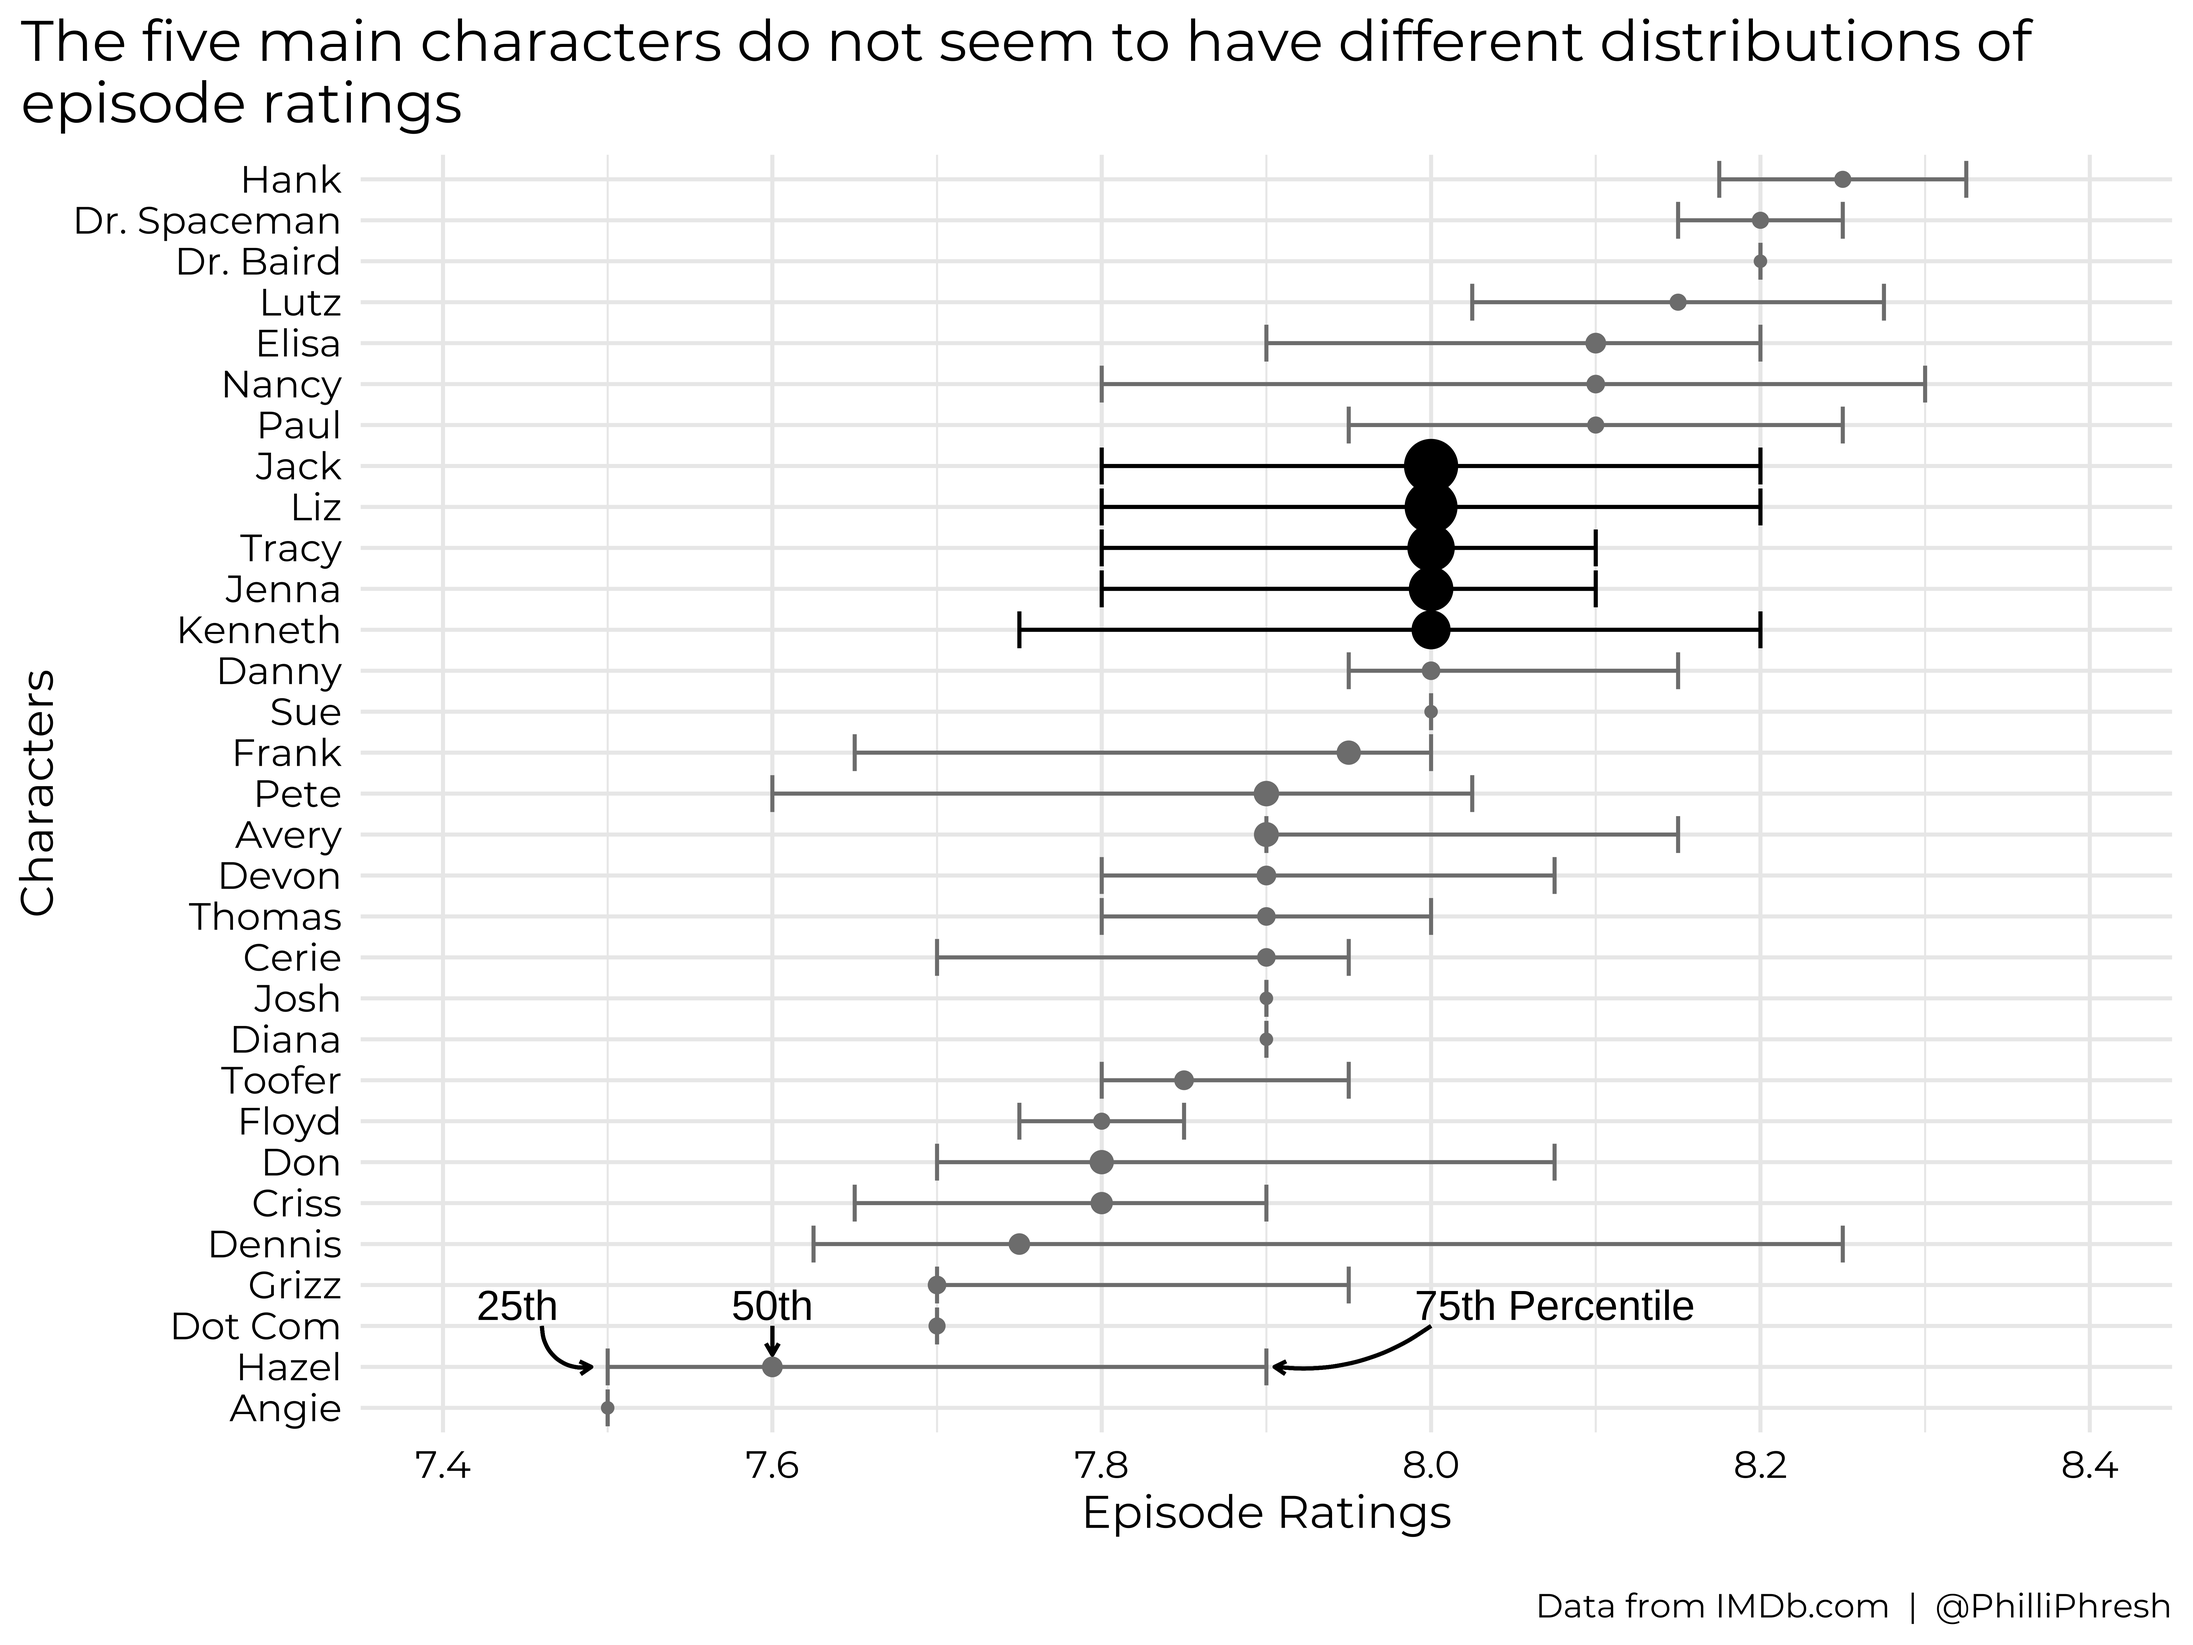
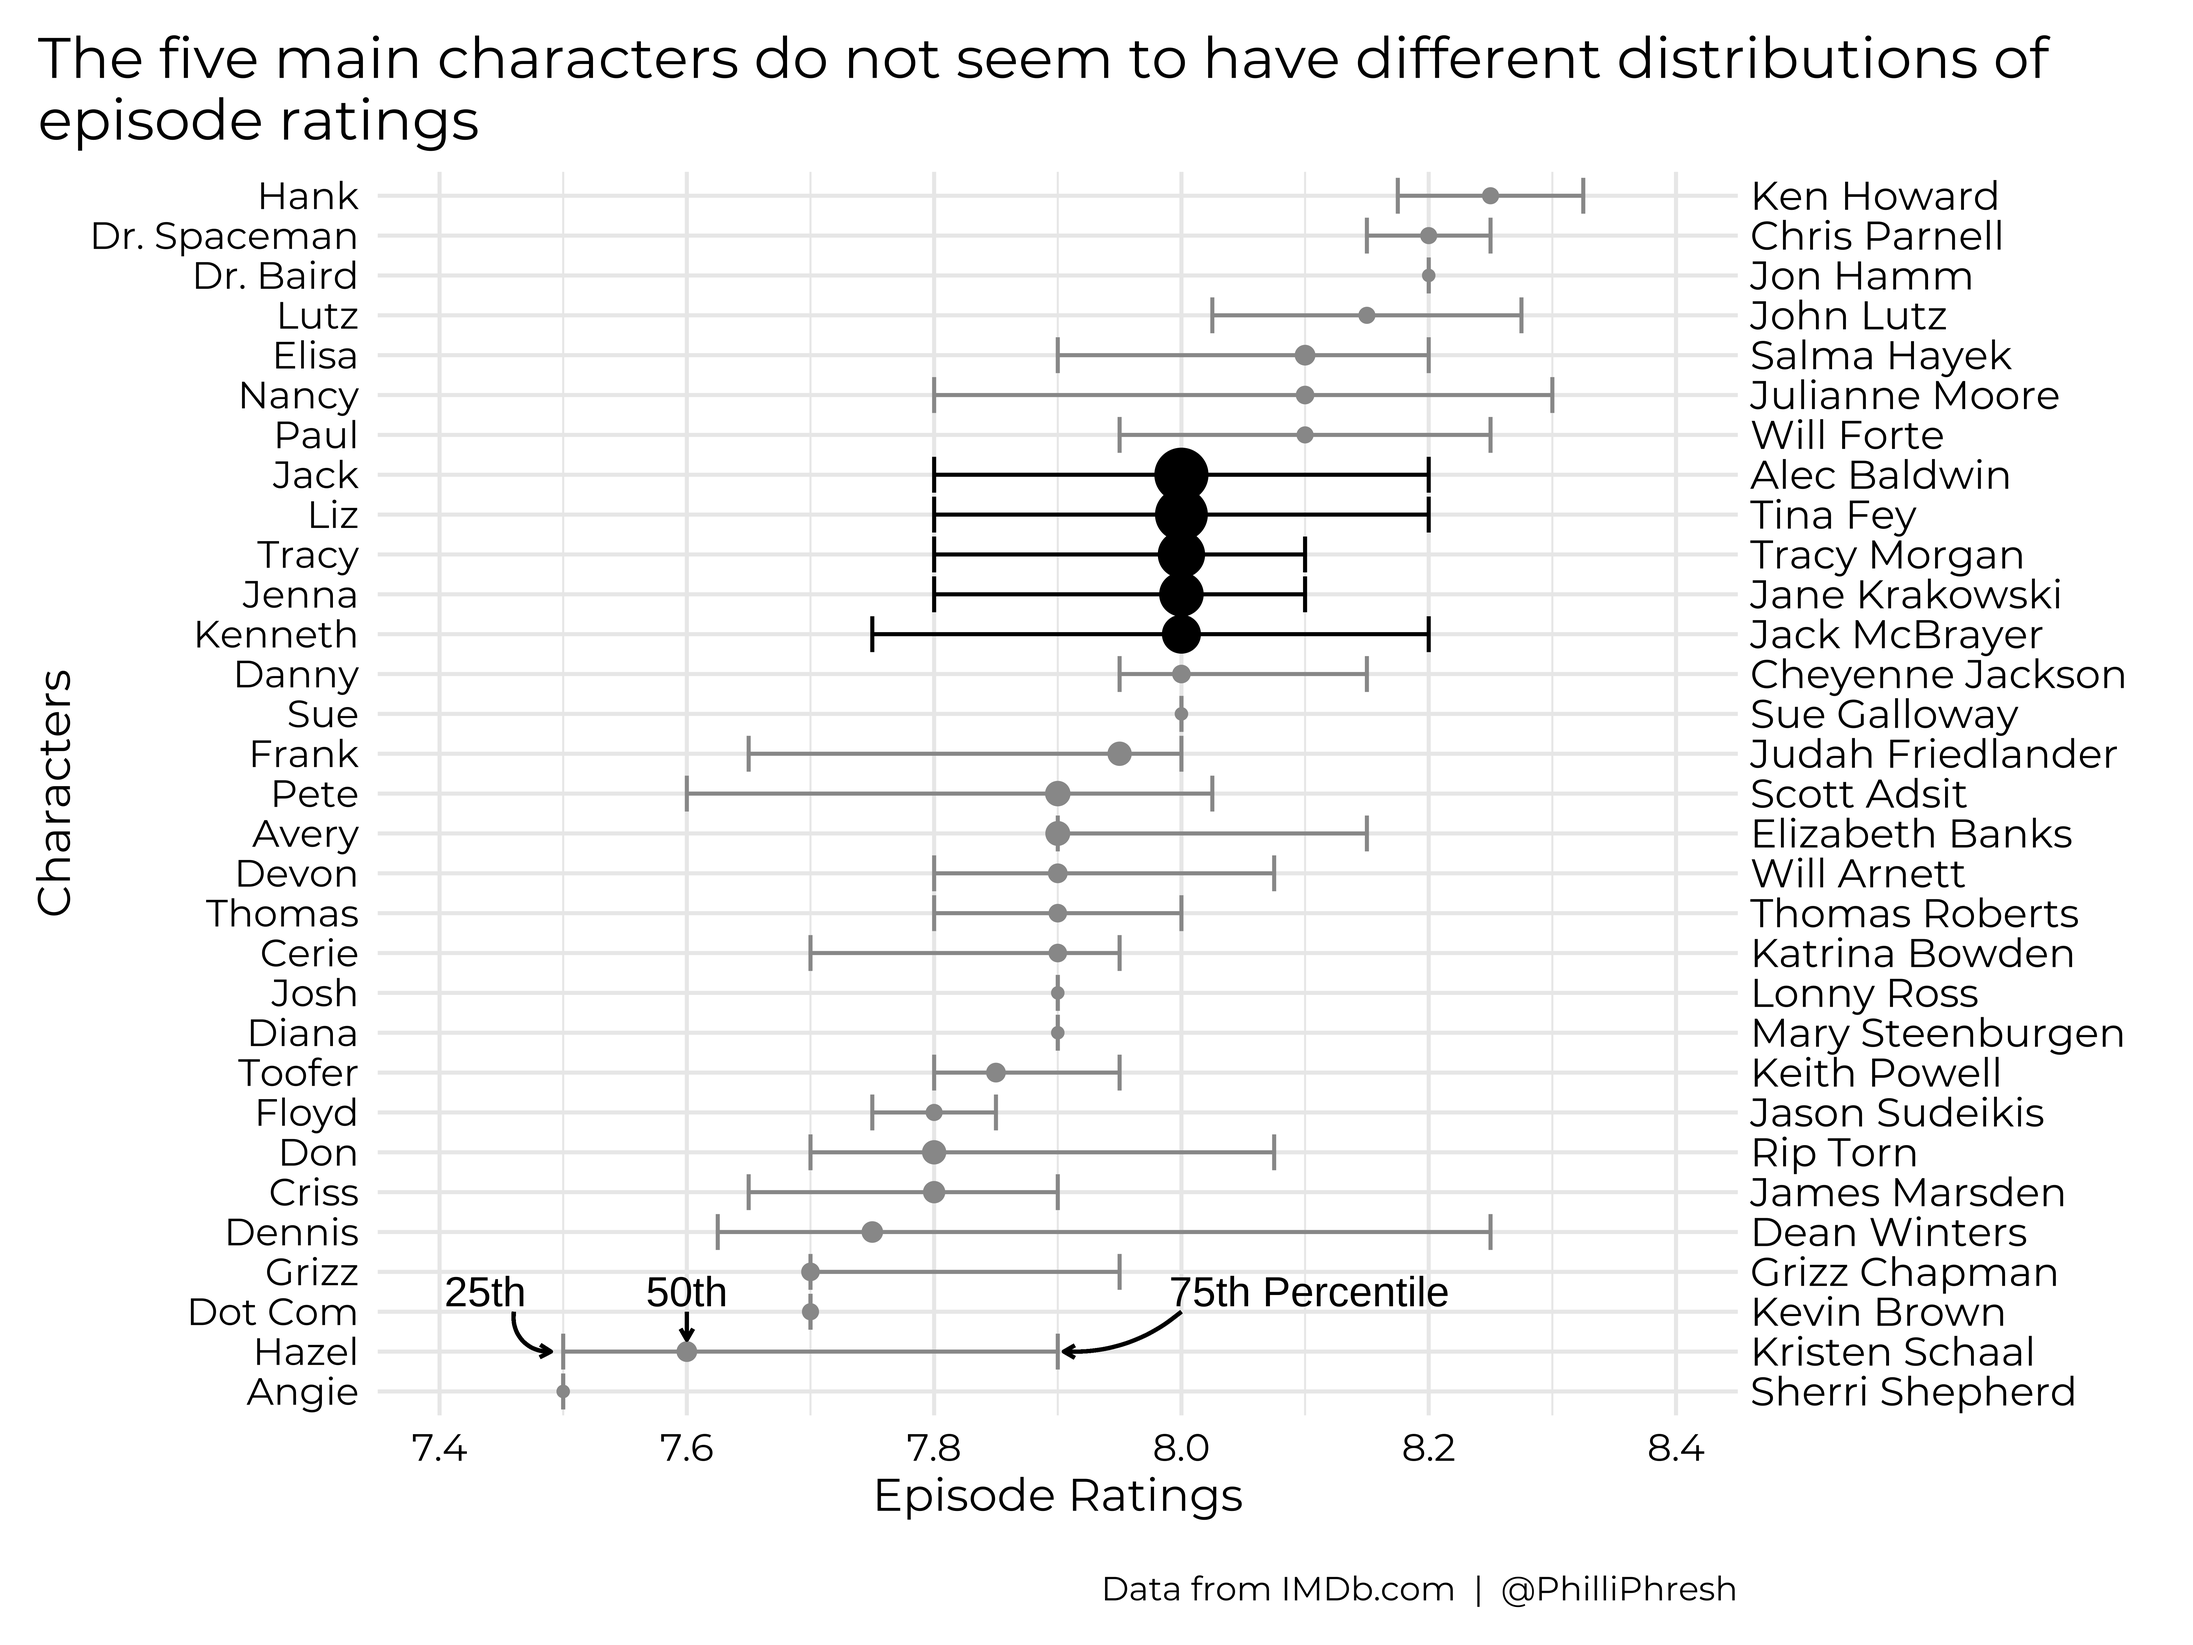
Cleaned up text and added actor names to character plot.

diff --git a/README.md b/README.md
@@ -13,9 +13,7 @@ fantastic show, and perhaps impress my friends from The Second City.
 ## IMDb rating
 
 IMDb ratings tend to be my go-to metric for scoring episodes, and
-something that I find particularly interesting. I suppose I assume that
-episodes with higher IMDb ratings had higher Neilsen ratings or
-generated more audience for the show. The plot below shows the
+something that I find particularly interesting. The plot below shows the
 distribution of IMDb ratings for every regular-season episode of the
 show.
 
@@ -62,7 +60,7 @@ staring in every episode. Robert Carlock wrote the second most total
 episodes for the show, which is fortunate because I love his writing
 style: quick, ridiculous, and too witty to keep up with sometimes. Tina
 Fey and Robert Carlock went on to co-create *The Unbreakable Kimmy
-Schmidt*, which would be another interesting show to analyze, bringing
+Schmidt* (which would be another interesting show to analyze) bringing
 along a lot of 30 Rock writing alumna. Tracy Wigfield created the NBC
 series *Great News*, another great watch. I believe Donald Glover is
 credited as a story consultant writer on some episodes that do not show
@@ -81,7 +79,8 @@ If they have similar distributions we cannot make any conclusions about
 the new writers, if the new writers have lower ratings then we can
 reasonably assume they did not do the show any favors.
 
-For the purposes of this question, the original writing team is:
+For the purposes of this question, I define the original writing team
+as:
 
 -   Tina Fey
 
@@ -111,11 +110,20 @@ The new writers are:
 
 ![](README_files/figure-gfm/unnamed-chunk-5-1.png)<!-- -->
 
+From season four and on, the episodes written by the new writers had
+lower median IMDb ratings than the original writing team. This evidence
+gives some merit to my hypothesis but with only 137 aired episodes, I
+don’t think there is enough data to be certain the new writers are all
+worse. If every writer wrote many more episodes, perhaps we could look
+at each writer’s episode ratings individually—there could be some
+original writing team members that produce consistently lower ratings
+and some new writers that produce consistently higher ratings.
+
 ## Prevalence of directors
 
 The plot below lists every director of the show in order of total
-episodes directed for the series. The median IMDb rating for each
-director’s episodes is listed beside their name.
+episodes directed for the series. The median IMDb rating for episodes
+directed by each person is listed beside their name.
 
 ![](README_files/figure-gfm/unnamed-chunk-6-1.png)<!-- -->
 
@@ -127,16 +135,19 @@ life). I notice Robert Carlock, the second-most credited writer,
 directed an episode in the final season—I wonder if there is any other
 writer/director overlap.
 
-## Examining characters listed in episode description
+# Examining characters listed in episode description
 
-Can we find any relationships with character names and IMDb ratings?
+Do episodes with Cerie in the spotlight score higher than those with
+Frank? Can we find any relationship with character names and IMDb
+ratings?
 
-### A little more web scraping needs performed to gather a list of character names
+## A little more web scraping needs performed to gather a list of character names
 
-View the README.Rmd file in this Github repo to see the extra web
-scraping code to gather character names.
+This Github repo includes the original Web Scraping code used to gather
+this data. You can view the README.Rmd file in this repo to see the
+extra web scraping code used to gather character names.
 
-### Plotting character rating prevalence
+## Plotting character rating prevalence
 
 I’m interested in seeing if certain characters being the main focus of
 an episode drives the IMDb rating up or down. Unfortunately a large
@@ -154,4 +165,26 @@ description—the top 5 characters are highlighted.
 
 ![](README_files/figure-gfm/unnamed-chunk-8-1.png)<!-- -->
 
-I’m not surprised Dr. Spaceman is stably near the top of the list.
+I’m not surprised Dr. Spaceman is stably near the top of the list. Of
+the main characters there doesn’t seem to be a difference in the
+distribution of episode ratings. However, I do notice annecdotally that
+a lot of episodes with characters often associated with Jack (romantic
+partners or business associates) outpace characters associated with Liz
+(mostly romantic partners).
+
+| Characters associated with Jack | Characters associated with Liz |
+|---------------------------------|--------------------------------|
+| Hank                            | Dr. Baird                      |
+| Elisa                           | Floyd                          |
+| Nancy                           | Criss                          |
+| Avery                           | Dennis                         |
+| Devon                           |                                |
+| Don                             |                                |
+
+# Conclusion
+
+This analysis has opened my eyes to the dichotomy of ratings between
+seasons and the potential factors driving those. I’ve gained a new
+appreciation for episodes written by Tina Fey and ones including
+characters focusing on Jack. If you’re a fellow fan of 30 Rock, feel
+free to reach out—I’d love to chat!
